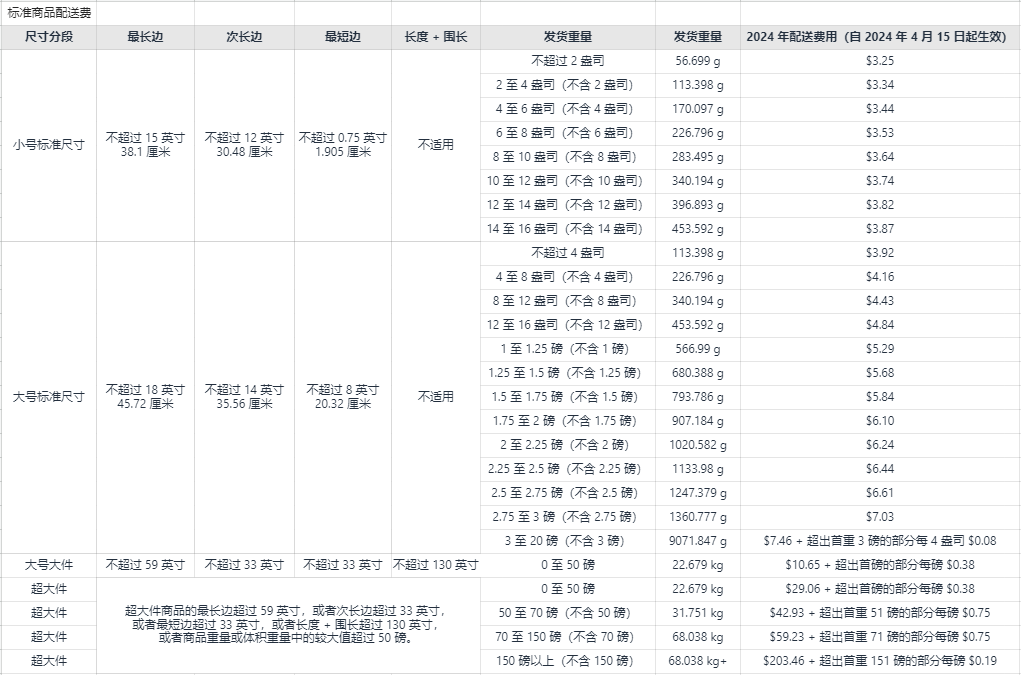
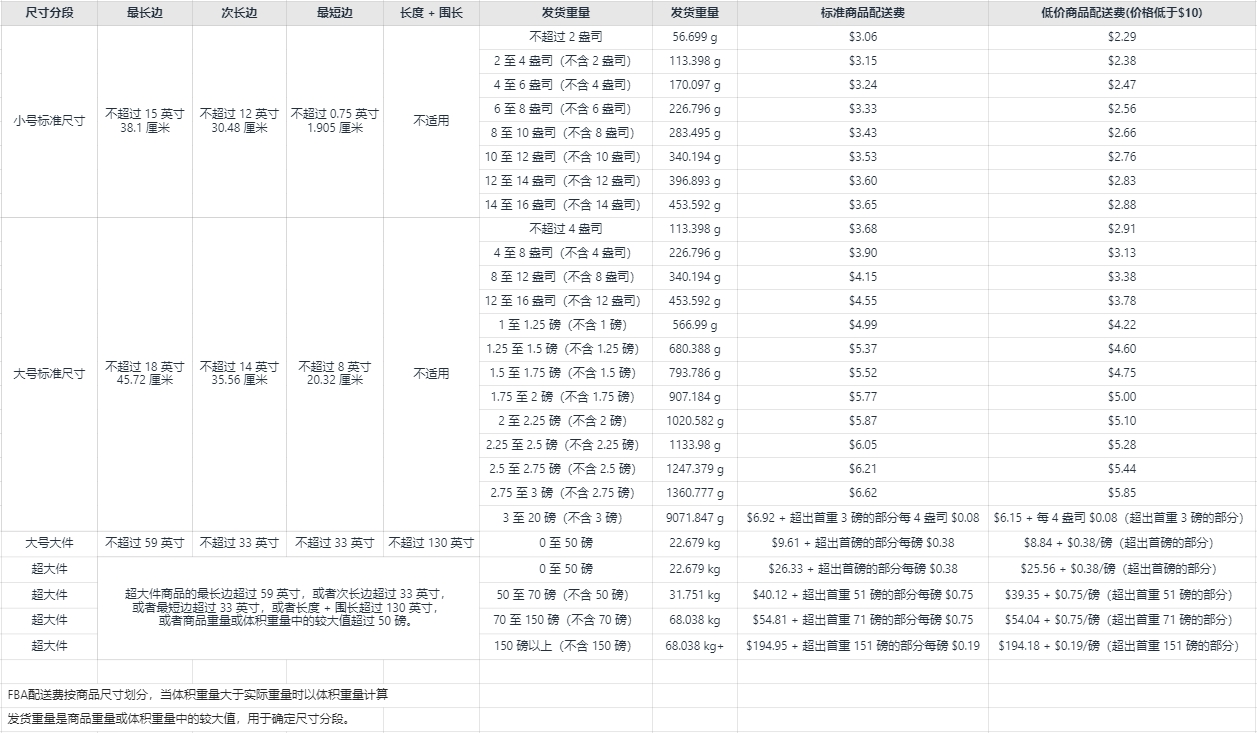
美国FBA物流配送费更新

diff --git a/onlineTools/tools/UnitConvert/index.html b/onlineTools/tools/UnitConvert/index.html
@@ -188,7 +188,6 @@
                         placement="bottom"
                         trigger="hover">
                     <img src="img/standard.png">
-                    <img src="img/low.png">
                     <a href="javascript:;" slot="reference" style="color: grey">费用标准</a>
                 </el-popover>
                 <el-popover
@@ -709,57 +708,57 @@
                             start: 0,
                             end: 2,// 不超过2盎司
                             unit: 'oz',
-                            lowPriceDeliveryFee: 2.48,// 售价不超过10刀的低价商品FBA配送费
-                            standardDeliveryFee: 3.25// 售价超过10刀的标准商品FBA配送费
+                            lowPriceDeliveryFee: 2.29,// 售价不超过10刀的低价商品FBA配送费
+                            standardDeliveryFee: 3.06// 售价超过10刀的标准商品FBA配送费
                         },
                         from2To4: {
                             start: 2,
                             end: 4,
                             unit: 'oz',
-                            lowPriceDeliveryFee: 2.57,
-                            standardDeliveryFee: 3.34
+                            lowPriceDeliveryFee: 2.38,
+                            standardDeliveryFee: 3.15
                         },
                         from4To6: {
                             start: 4,
                             end: 6,
                             unit: 'oz',
-                            lowPriceDeliveryFee: 2.67,
-                            standardDeliveryFee: 3.44
+                            lowPriceDeliveryFee: 2.47,
+                            standardDeliveryFee: 3.24
                         },
                         from6To8: {
                             start: 6,
                             end: 8,
                             unit: 'oz',
-                            lowPriceDeliveryFee: 2.76,
-                            standardDeliveryFee: 3.53
+                            lowPriceDeliveryFee: 2.56,
+                            standardDeliveryFee: 3.33
                         },
                         from8To10: {
                             start: 8,
                             end: 10,
                             unit: 'oz',
-                            lowPriceDeliveryFee: 2.87,
-                            standardDeliveryFee: 3.64
+                            lowPriceDeliveryFee: 2.66,
+                            standardDeliveryFee: 3.43
                         },
                         from10To12: {
                             start: 10,
                             end: 12,
                             unit: 'oz',
-                            lowPriceDeliveryFee: 2.97,
-                            standardDeliveryFee: 3.74
+                            lowPriceDeliveryFee: 2.76,
+                            standardDeliveryFee: 3.53
                         },
                         from12To14: {
                             start: 12,
                             end: 14,
                             unit: 'oz',
-                            lowPriceDeliveryFee: 3.05,
-                            standardDeliveryFee: 3.82
+                            lowPriceDeliveryFee: 2.83,
+                            standardDeliveryFee: 3.60
                         },
                         from14To16: {
                             start: 14,
                             end: 16,
                             unit: 'oz',
-                            lowPriceDeliveryFee: 3.1,
-                            standardDeliveryFee: 3.87
+                            lowPriceDeliveryFee: 2.88,
+                            standardDeliveryFee: 3.65
                         }
                     }
                 },
@@ -776,92 +775,92 @@
                             start: 0,
                             end: 4,// 不超过4盎司
                             unit: 'oz',
-                            lowPriceDeliveryFee: 3.15,// 售价不超过10刀的低价商品FBA配送费
-                            standardDeliveryFee: 3.92// 售价超过10刀的标准商品FBA配送费
+                            lowPriceDeliveryFee: 2.91,// 售价不超过10刀的低价商品FBA配送费
+                            standardDeliveryFee: 3.68// 售价超过10刀的标准商品FBA配送费
                         },
                         from4To8: {
                             start: 4,
                             end: 8,
                             unit: 'oz',
-                            lowPriceDeliveryFee: 3.39,// 售价不超过10刀的低价商品FBA配送费
-                            standardDeliveryFee: 4.16// 售价超过10刀的标准商品FBA配送费
+                            lowPriceDeliveryFee: 3.13,// 售价不超过10刀的低价商品FBA配送费
+                            standardDeliveryFee: 3.90// 售价超过10刀的标准商品FBA配送费
                         },
                         from8To12: {
                             start: 8,
                             end: 12,
                             unit: 'oz',
-                            lowPriceDeliveryFee: 3.66,// 售价不超过10刀的低价商品FBA配送费
-                            standardDeliveryFee: 4.43// 售价超过10刀的标准商品FBA配送费
+                            lowPriceDeliveryFee: 3.38,// 售价不超过10刀的低价商品FBA配送费
+                            standardDeliveryFee: 4.15// 售价超过10刀的标准商品FBA配送费
                         },
                         from12To16: {
                             start: 12,
                             end: 16,// 不超过16盎司
                             unit: 'oz',
-                            lowPriceDeliveryFee: 4.07,// 售价不超过10刀的低价商品FBA配送费
-                            standardDeliveryFee: 4.85// 售价超过10刀的标准商品FBA配送费
+                            lowPriceDeliveryFee: 3.78,// 售价不超过10刀的低价商品FBA配送费
+                            standardDeliveryFee: 4.55// 售价超过10刀的标准商品FBA配送费
                         },
                         from100To125: {
                             start: 1,
                             end: 1.25,// 不超过1.25磅
                             unit: 'lb',
-                            lowPriceDeliveryFee: 4.52,// 售价不超过10刀的低价商品FBA配送费
-                            standardDeliveryFee: 5.29// 售价超过10刀的标准商品FBA配送费
+                            lowPriceDeliveryFee: 4.22,// 售价不超过10刀的低价商品FBA配送费
+                            standardDeliveryFee: 4.99// 售价超过10刀的标准商品FBA配送费
                         },
                         from125To150: {
                             start: 1.25,
                             end: 1.5,
                             unit: 'lb',
-                            lowPriceDeliveryFee: 4.91,// 售价不超过10刀的低价商品FBA配送费
-                            standardDeliveryFee: 5.68// 售价超过10刀的标准商品FBA配送费
+                            lowPriceDeliveryFee: 4.60,// 售价不超过10刀的低价商品FBA配送费
+                            standardDeliveryFee: 5.37// 售价超过10刀的标准商品FBA配送费
                         },
                         from150To175: {
                             start: 1.5,
                             end: 1.75,
                             unit: 'lb',
-                            lowPriceDeliveryFee: 5.07,// 售价不超过10刀的低价商品FBA配送费
-                            standardDeliveryFee: 5.84// 售价超过10刀的标准商品FBA配送费
+                            lowPriceDeliveryFee: 4.75,// 售价不超过10刀的低价商品FBA配送费
+                            standardDeliveryFee: 5.52// 售价超过10刀的标准商品FBA配送费
                         },
                         from175To200: {
                             start: 1.75,
                             end: 2,
                             unit: 'lb',
-                            lowPriceDeliveryFee: 5.33,// 售价不超过10刀的低价商品FBA配送费
-                            standardDeliveryFee: 6.1// 售价超过10刀的标准商品FBA配送费
+                            lowPriceDeliveryFee: 5.00,// 售价不超过10刀的低价商品FBA配送费
+                            standardDeliveryFee: 5.77// 售价超过10刀的标准商品FBA配送费
                         },
                         from200To225: {
                             start: 2,
                             end: 2.25,
                             unit: 'lb',
-                            lowPriceDeliveryFee: 5.47,// 售价不超过10刀的低价商品FBA配送费
-                            standardDeliveryFee: 6.24// 售价超过10刀的标准商品FBA配送费
+                            lowPriceDeliveryFee: 5.10,// 售价不超过10刀的低价商品FBA配送费
+                            standardDeliveryFee: 5.87// 售价超过10刀的标准商品FBA配送费
                         },
                         from225To250: {
                             start: 2.25,
                             end: 2.5,
                             unit: 'lb',
-                            lowPriceDeliveryFee: 5.67,// 售价不超过10刀的低价商品FBA配送费
-                            standardDeliveryFee: 6.44// 售价超过10刀的标准商品FBA配送费
+                            lowPriceDeliveryFee: 5.28,// 售价不超过10刀的低价商品FBA配送费
+                            standardDeliveryFee: 6.05// 售价超过10刀的标准商品FBA配送费
                         },
                         from250To275: {
                             start: 2.5,
                             end: 2.75,
                             unit: 'lb',
-                            lowPriceDeliveryFee: 5.84,// 售价不超过10刀的低价商品FBA配送费
-                            standardDeliveryFee: 6.61// 售价超过10刀的标准商品FBA配送费
+                            lowPriceDeliveryFee: 5.44,// 售价不超过10刀的低价商品FBA配送费
+                            standardDeliveryFee: 6.21// 售价超过10刀的标准商品FBA配送费
                         },
                         from275To300: {
                             start: 2.75,
                             end: 3,
                             unit: 'lb',
-                            lowPriceDeliveryFee: 6.26,// 售价不超过10刀的低价商品FBA配送费
-                            standardDeliveryFee: 7.03// 售价超过10刀的标准商品FBA配送费
+                            lowPriceDeliveryFee: 5.85,// 售价不超过10刀的低价商品FBA配送费
+                            standardDeliveryFee: 6.62// 售价超过10刀的标准商品FBA配送费
                         },
                         from300To2000: {
                             start: 3,
                             end: 20,// 不超过20磅
                             unit: 'lb',
-                            lowPriceDeliveryFee: 6.69,// 售价不超过10刀的低价商品FBA配送费
-                            standardDeliveryFee: 7.46,// 售价超过10刀的标准商品FBA配送费
+                            lowPriceDeliveryFee: 6.15,// 售价不超过10刀的低价商品FBA配送费
+                            standardDeliveryFee: 6.92,// 售价超过10刀的标准商品FBA配送费
                             excessWeight: {
                                 unit: 'oz',
                                 segmentation: 4, // 超出首重 3 磅的部分，每 4 盎司 $0.08
@@ -884,8 +883,8 @@
                             start: 0,
                             end: 50,
                             unit: 'lb',
-                            lowPriceDeliveryFee: 9.88,// 售价不超过10刀的低价商品FBA配送费
-                            standardDeliveryFee: 10.65,// 售价超过10刀的标准商品FBA配送费
+                            lowPriceDeliveryFee: 8.84,// 售价不超过10刀的低价商品FBA配送费
+                            standardDeliveryFee: 9.61,// 售价超过10刀的标准商品FBA配送费
                             excessWeight: {
                                 unit: 'lb',
                                 segmentation: 1, // 超出首磅的部分，每磅 $0.38
@@ -908,8 +907,8 @@
                             start: 0,
                             end: 50,
                             unit: 'lb',
-                            lowPriceDeliveryFee: 28.29,// 售价不超过10刀的低价商品FBA配送费
-                            standardDeliveryFee: 29.06,// 售价超过10刀的标准商品FBA配送费
+                            lowPriceDeliveryFee: 25.56,// 售价不超过10刀的低价商品FBA配送费
+                            standardDeliveryFee: 26.33,// 售价超过10刀的标准商品FBA配送费
                             excessWeight: {
                                 unit: 'lb',
                                 segmentation: 1, // 超出首磅的部分，每磅 $0.38
@@ -920,8 +919,8 @@
                             start: 50,
                             end: 70,
                             unit: 'lb',
-                            lowPriceDeliveryFee: 42.17,// 售价不超过10刀的低价商品FBA配送费
-                            standardDeliveryFee: 42.93,// 售价超过10刀的标准商品FBA配送费
+                            lowPriceDeliveryFee: 39.35,// 售价不超过10刀的低价商品FBA配送费
+                            standardDeliveryFee: 40.12,// 售价超过10刀的标准商品FBA配送费
                             excessWeight: {
                                 unit: 'lb',
                                 segmentation: 1, // 超出首重的部分，每磅 $0.38
@@ -932,8 +931,8 @@
                             start: 70,
                             end: 150,
                             unit: 'lb',
-                            lowPriceDeliveryFee: 58.46,// 售价不超过10刀的低价商品FBA配送费
-                            standardDeliveryFee: 59.23,// 售价超过10刀的标准商品FBA配送费
+                            lowPriceDeliveryFee: 54.04,// 售价不超过10刀的低价商品FBA配送费
+                            standardDeliveryFee: 54.81,// 售价超过10刀的标准商品FBA配送费
                             excessWeight: {
                                 unit: 'lb',
                                 segmentation: 1, // 超出首重的部分，每磅 $0.75
@@ -944,8 +943,8 @@
                             start: 150,
                             end: 999,
                             unit: 'lb',
-                            lowPriceDeliveryFee: 202.69,// 售价不超过10刀的低价商品FBA配送费
-                            standardDeliveryFee: 203.46,// 售价超过10刀的标准商品FBA配送费
+                            lowPriceDeliveryFee: 194.18,// 售价不超过10刀的低价商品FBA配送费
+                            standardDeliveryFee: 194.95,// 售价超过10刀的标准商品FBA配送费
                             excessWeight: {
                                 unit: 'lb',
                                 segmentation: 1, // 超出首重的部分，每磅 $0.38

diff --git a/onlineTools/tools/FBADeliveryFeeCalculation/index.html b/onlineTools/tools/FBADeliveryFeeCalculation/index.html
@@ -169,7 +169,6 @@
                         placement="bottom"
                         trigger="hover">
                     <img v-if="siteName==='US'" src="img/standard.png">
-                    <img v-if="siteName==='US'" src="img/low.png">
                     <img v-if="siteName==='AU'" src="img/AU-1.png" style="width: 600px;height:1000px">
                     <img v-if="siteName==='AU'" src="img/AU-2.png" style="width: 600px;height:1000px">
                     <img v-if="siteName==='JP'" src="img/JP-1.png">
